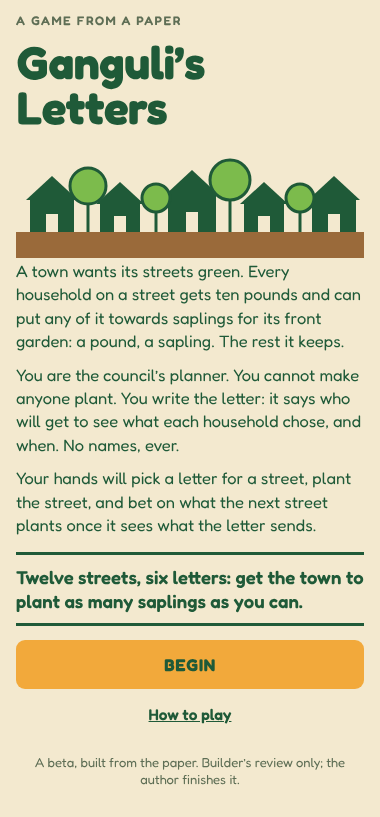
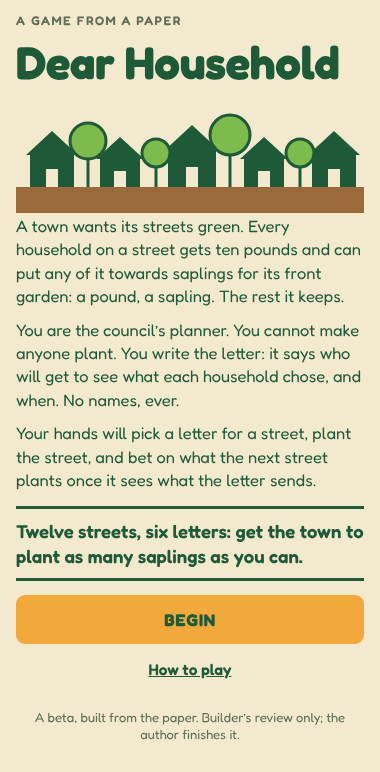
Dear Household: rename from Ganguli's Letters; title about the game, not the authors
Claude-Session: https://claude.ai/code/session_018niUhwWRrFBmUUm93bkku5

diff --git a/ganguli/dear-household.html b/ganguli/dear-household.html
@@ -3,7 +3,7 @@
 <head>
 <meta charset="utf-8">
 <meta name="viewport" content="width=device-width, initial-scale=1, viewport-fit=cover">
-<title>Ganguli's Letters</title>
+<title>Dear Household</title>
 <meta name="description" content="A town, twelve streets, ten pounds a household for saplings. You write the letter that says who gets to see what each household chose, and when. Find the letter that makes a street plant more, and how far the ripple goes.">
 <style>
[1 lines of base64/hex data omitted]
@@ -99,7 +99,7 @@ footer.beta{margin-top:22px;font-size:13px;color:var(--mute);text-align:center;l
 <!-- ===================== START ===================== -->
 <section class="screen on" id="s-start">
   <div class="caps">A game from a paper</div>
-  <h1>Ganguli&rsquo;s Letters</h1>
+  <h1>Dear Household</h1>
   <svg class="poster" viewBox="0 0 348 118" aria-hidden="true">
     <rect x="0" y="92" width="348" height="26" fill="#9A6A3A"/>
     <g fill="#1F5A38">
@@ -191,7 +191,7 @@ footer.beta{margin-top:22px;font-size:13px;color:var(--mute);text-align:center;l
 <!-- ===================== HELP ===================== -->
 <div class="ov" id="help"><div class="wrap">
   <div class="caps">How to play</div>
-  <h2>Ganguli&rsquo;s Letters</h2>
+  <h2>Dear Household</h2>
   <div class="aim">Twelve streets, six letters: get the town to plant as many saplings as you can.</div>
   <p><b>The streets.</b> Every household on a street gets ten pounds and may put any of it towards saplings for its front garden, keeping the rest. A plot is one household; a sapling is a pound it gave. A plain street, where nobody is told anything and nobody sees anything, plants 57 saplings. Green grows only where someone chose it.</p>
   <p><b>The letter.</b> Streets come in pairs. The top street gets your letter, which tells each household who will see its pledge, and when. The bottom street sees only what the letter sends, before it decides. Touch an envelope and the picture shows who will see whom: an eye on a plot that is told it will be seen, cards and arrows on the road for what travels, a slot on a plot that receives something. The six letters are: <b>the plain letter</b> (nobody sees anything); <b>the sheet</b> (all twenty pledges to every household on the next street, before they decide); <b>the spokesperson</b> (one household&rsquo;s pledge to all twenty on the next street, before; the other nineteen told nothing); <b>pass it on</b> (each pledge to one household on the next street, before); <b>afterwards</b> (each pledge to one household on the next street, after they have decided); <b>the clipboard</b> (all twenty pledges to one household on the next street, before). No letter carries a name.</p>
@@ -203,7 +203,7 @@ footer.beta{margin-top:22px;font-size:13px;color:var(--mute);text-align:center;l
 
 <!-- ===================== ABOUT ===================== -->
 <div class="ov" id="about"><div class="wrap">
-  <div class="caps">Ganguli&rsquo;s Letters</div>
+  <div class="caps">Dear Household</div>
   <h2>About</h2>
   <p>Built from Jayant Vivek Ganguli and Friederike Mengel, &ldquo;Social influence and carbon dioxide mitigation&rdquo;, <i>Journal of Public Economics</i> 253 (2026), 105558. DOI <a href="https://doi.org/10.1016/j.jpubeco.2025.105558">10.1016/j.jpubeco.2025.105558</a>, open access. Preregistered as AEARCTR-0010768. Game built from this paper; the paper is the authority where the two disagree.</p>
 
@@ -235,7 +235,7 @@ footer.beta{margin-top:22px;font-size:13px;color:var(--mute);text-align:center;l
 </div></div>
 
 <script>
-// Ganguli's Letters — mechanism. The single source of truth: plain functions, no DOM, no randomness.
+// Dear Household — mechanism. The single source of truth: plain functions, no DOM, no randomness.
 // Runs unchanged in Node (calibration.js, loop.js) and in the browser (inlined verbatim by build.py).
 // Kind: RECONSTRUCTED. The paper's treatment means, its wave-2 response and its belief numbers are the data;
 // the town, the streets of twenty, the six letters as real-life arrangements, the additive ripple, the bet's

diff --git a/ganguli/template.html b/ganguli/template.html
@@ -3,7 +3,7 @@
 <head>
 <meta charset="utf-8">
 <meta name="viewport" content="width=device-width, initial-scale=1, viewport-fit=cover">
-<title>Ganguli's Letters</title>
+<title>Dear Household</title>
 <meta name="description" content="A town, twelve streets, ten pounds a household for saplings. You write the letter that says who gets to see what each household chose, and when. Find the letter that makes a street plant more, and how far the ripple goes.">
 <style>
 @font-face{font-family:Fredoka;font-weight:300 700;font-style:normal;src:url(data:font/woff2;base64,/*__F_FREDOKA__*/) format('woff2')}
@@ -99,7 +99,7 @@ footer.beta{margin-top:22px;font-size:13px;color:var(--mute);text-align:center;l
 <!-- ===================== START ===================== -->
 <section class="screen on" id="s-start">
   <div class="caps">A game from a paper</div>
-  <h1>Ganguli&rsquo;s Letters</h1>
+  <h1>Dear Household</h1>
   <svg class="poster" viewBox="0 0 348 118" aria-hidden="true">
     <rect x="0" y="92" width="348" height="26" fill="#9A6A3A"/>
     <g fill="#1F5A38">
@@ -191,7 +191,7 @@ footer.beta{margin-top:22px;font-size:13px;color:var(--mute);text-align:center;l
 <!-- ===================== HELP ===================== -->
 <div class="ov" id="help"><div class="wrap">
   <div class="caps">How to play</div>
-  <h2>Ganguli&rsquo;s Letters</h2>
+  <h2>Dear Household</h2>
   <div class="aim">Twelve streets, six letters: get the town to plant as many saplings as you can.</div>
   <p><b>The streets.</b> Every household on a street gets ten pounds and may put any of it towards saplings for its front garden, keeping the rest. A plot is one household; a sapling is a pound it gave. A plain street, where nobody is told anything and nobody sees anything, plants 57 saplings. Green grows only where someone chose it.</p>
   <p><b>The letter.</b> Streets come in pairs. The top street gets your letter, which tells each household who will see its pledge, and when. The bottom street sees only what the letter sends, before it decides. Touch an envelope and the picture shows who will see whom: an eye on a plot that is told it will be seen, cards and arrows on the road for what travels, a slot on a plot that receives something. The six letters are: <b>the plain letter</b> (nobody sees anything); <b>the sheet</b> (all twenty pledges to every household on the next street, before they decide); <b>the spokesperson</b> (one household&rsquo;s pledge to all twenty on the next street, before; the other nineteen told nothing); <b>pass it on</b> (each pledge to one household on the next street, before); <b>afterwards</b> (each pledge to one household on the next street, after they have decided); <b>the clipboard</b> (all twenty pledges to one household on the next street, before). No letter carries a name.</p>

diff --git a/ganguli/session-test.js b/ganguli/session-test.js
@@ -6,7 +6,7 @@ const path = require('path');
   const browser = await chromium.launch();
   const page = await browser.newPage({ viewport: { width: 380, height: 760 }, deviceScaleFactor: 1 });
   const errors = []; page.on('pageerror', e => errors.push(e.message)); page.on('console', m => { if (m.type() === 'error') errors.push(m.text()); });
-  const url = 'file://' + path.resolve(__dirname, 'gangulis-letters.html');
+  const url = 'file://' + path.resolve(__dirname, 'dear-household.html');
   await page.goto(url); await page.waitForTimeout(700);
   const shot = async (n, full) => page.screenshot({ path: path.join(__dirname, 'screenshot-' + n + '.png'), fullPage: !!full });
   const shotOverlay = async (id, n) => { await page.evaluate(id => { const o = document.getElementById(id); o.style.position = 'absolute'; o.style.inset = 'auto'; o.style.top = '0'; o.style.left = '0'; o.style.right = '0'; document.querySelector('body > .wrap').style.visibility = 'hidden'; }, id); await page.evaluate(() => window.scrollTo(0, 0)); await shot(n, true); await page.evaluate(id => { const o = document.getElementById(id); o.style.position = ''; o.style.inset = ''; o.style.top = ''; o.style.left = ''; o.style.right = ''; document.querySelector('body > .wrap').style.visibility = ''; }, id); };

diff --git a/ganguli/mechanism.js b/ganguli/mechanism.js
@@ -1,4 +1,4 @@
-// Ganguli's Letters — mechanism. The single source of truth: plain functions, no DOM, no randomness.
+// Dear Household — mechanism. The single source of truth: plain functions, no DOM, no randomness.
 // Runs unchanged in Node (calibration.js, loop.js) and in the browser (inlined verbatim by build.py).
 // Kind: RECONSTRUCTED. The paper's treatment means, its wave-2 response and its belief numbers are the data;
 // the town, the streets of twenty, the six letters as real-life arrangements, the additive ripple, the bet's

diff --git a/ganguli/about.html b/ganguli/about.html
@@ -1,4 +1,4 @@
-  <div class="caps">Ganguli&rsquo;s Letters</div>
+  <div class="caps">Dear Household</div>
   <h2>About</h2>
   <p>Built from Jayant Vivek Ganguli and Friederike Mengel, &ldquo;Social influence and carbon dioxide mitigation&rdquo;, <i>Journal of Public Economics</i> 253 (2026), 105558. DOI <a href="https://doi.org/10.1016/j.jpubeco.2025.105558">10.1016/j.jpubeco.2025.105558</a>, open access. Preregistered as AEARCTR-0010768. Game built from this paper; the paper is the authority where the two disagree.</p>
 

diff --git a/ganguli/calibration.js b/ganguli/calibration.js
@@ -1,4 +1,4 @@
-// Calibration check for Ganguli's Letters: runs mechanism.js headless against the paper's own numbers.
+// Calibration check for Dear Household: runs mechanism.js headless against the paper's own numbers.
 const M = require('./mechanism.js');
 const C = M.CONFIG;
 let fails = 0, out = [];

diff --git a/ganguli/build.py b/ganguli/build.py
@@ -1,4 +1,4 @@
-# Generates gangulis-letters.html from template.html, mechanism.js (the single source of truth), about.html and the
+# Generates dear-household.html from template.html, mechanism.js (the single source of truth), about.html and the
 # embedded font, then verifies byte for byte that the embedded mechanism is the file calibration.js ran against.
 import base64, sys, os
 os.chdir(os.path.dirname(os.path.abspath(__file__)))
@@ -13,7 +13,7 @@ subs = {
 }
 for k in subs: assert t.count(k) == 1, k
 for k, v in subs.items(): t = t.replace(k, v)
-name = 'gangulis-letters.html'
+name = 'dear-household.html'
 open(name, 'w', encoding='utf-8').write(t)
 built = open(name, encoding='utf-8').read()
 if mech not in built:

diff --git a/ganguli/row.md b/ganguli/row.md
@@ -1,1 +1,1 @@
-| **Ganguli's Letters** | Ganguli & Mengel (2026), *Journal of Public Economics* 253:105558. Social influence and carbon dioxide mitigation: does knowing that someone will see your choice make you give more to tree planting, and how far does it carry? As a 1970s public-information poster: you are a town's planner, twelve streets of twenty households, ten pounds each for saplings, and one letter per pair of streets saying who will see each household's pledge and when: the sheet to everyone, one spokesperson to all, pass it on to one, afterwards, the clipboard, or nothing. Plant the street, bet on what the next street plants when it sees what you sent, and find that the humble letter is the only one that works and the ripple is less than a sapling. | [play](https://steffenhuck.github.io/paper-to-game/ganguli/gangulis-letters.html) · [memo](ganguli/memo.md) |
+| **Dear Household** | Ganguli & Mengel (2026), *Journal of Public Economics* 253:105558. Social influence and carbon dioxide mitigation: does knowing that someone will see your choice make you give more to tree planting, and how far does it carry? As a 1970s public-information poster: you are a town's planner, twelve streets of twenty households, ten pounds each for saplings, and one letter per pair of streets saying who will see each household's pledge and when: the sheet to everyone, one spokesperson to all, pass it on to one, afterwards, the clipboard, or nothing. Plant the street, bet on what the next street plants when it sees what you sent, and find that the humble letter is the only one that works and the ripple is less than a sapling. | [play](https://steffenhuck.github.io/paper-to-game/ganguli/dear-household.html) · [memo](ganguli/memo.md) |

diff --git a/ganguli/memo.md b/ganguli/memo.md
@@ -1,6 +1,8 @@
-# Ganguli's Letters — design memo
+# Dear Household — design memo
 
 ## 0. Given
+
+**Title.** First built as *Ganguli's Letters*; renamed *Dear Household* at Steffen's request after the first merge: the paper has two authors and a title naming one was wrong, and a title about the game was wanted. *Dear Household* is the salutation of the letter the player writes.
 
 Not Steffen's: a gift for someone else, with the beta line in the footer and no signature or counter. No recipient named.
 
@@ -166,3 +168,4 @@ Reading: one simple rule wins everywhere, and it is the sentence the player shou
 - `session-test.js` drove a full session at 380 px in headless Chromium: every letter previewed, six pairs with the stranger's plan (sheet, spokesperson, pass it on, afterwards, pass it on, clipboard), bets of 75, 70, 60, 58, 57, help opened mid-play and closed, About, the verdict, then a second town (pass it on everywhere, bet 58): 741, "about right". No errors, no horizontal scroll.
 - Screenshot review fixed: the "plain" label on the bar mark colliding with the plots and the bet marker (the mark is now explained in the lead and the label removed); the town drawing's second row of numbers cut off; the envelope grid shortened so the third row sits closer to the preview; the letter screen now says what a good outcome looks like (past the mark).
 - Estimated length: four to six minutes for six pairs; not measured on a person.
+- Renamed from *Ganguli's Letters* to *Dear Household* (file `dear-household.html`); rebuilt, checks and session re-run.

diff --git a/ganguli/author-note.md b/ganguli/author-note.md
@@ -1,4 +1,4 @@
-# Ganguli's Letters — note for the authors
+# Dear Household — note for the authors
 
 1. Look first at `screenshot-a-1-letter-set.png` (the sheet chosen: eyes on every plot, the sheet on the road, twenty arrows), then `screenshot-a-1-this-result.png` (the sheet's street at 58 on the plain mark), `screenshot-a-3-next-result.png` (pass it on: 66, and the next street at 57 with "less than one sapling more") and `screenshot-a-end.png`. Then play it once on a phone.
 2. Everything tunable is in `CONFIG` at the top of `mechanism.js`, the only copy of the mechanism: Table 2's constant and INF-(1,1) effect, Table 3's three margins (each with its point estimate and the value played), Table 4's slope and constant, the belief numbers and type shares, the two histograms read off Table 2's figure, and everything ours (the street of twenty, the pairs, the spokesperson's plot, the copy's centring, the bet's range and cutoffs, the words). Edit, run `node calibration.js` (82 checks and the play-it-in-numbers table), then `python3 build.py`, which refuses to build if the embedded mechanism differs from the file.
